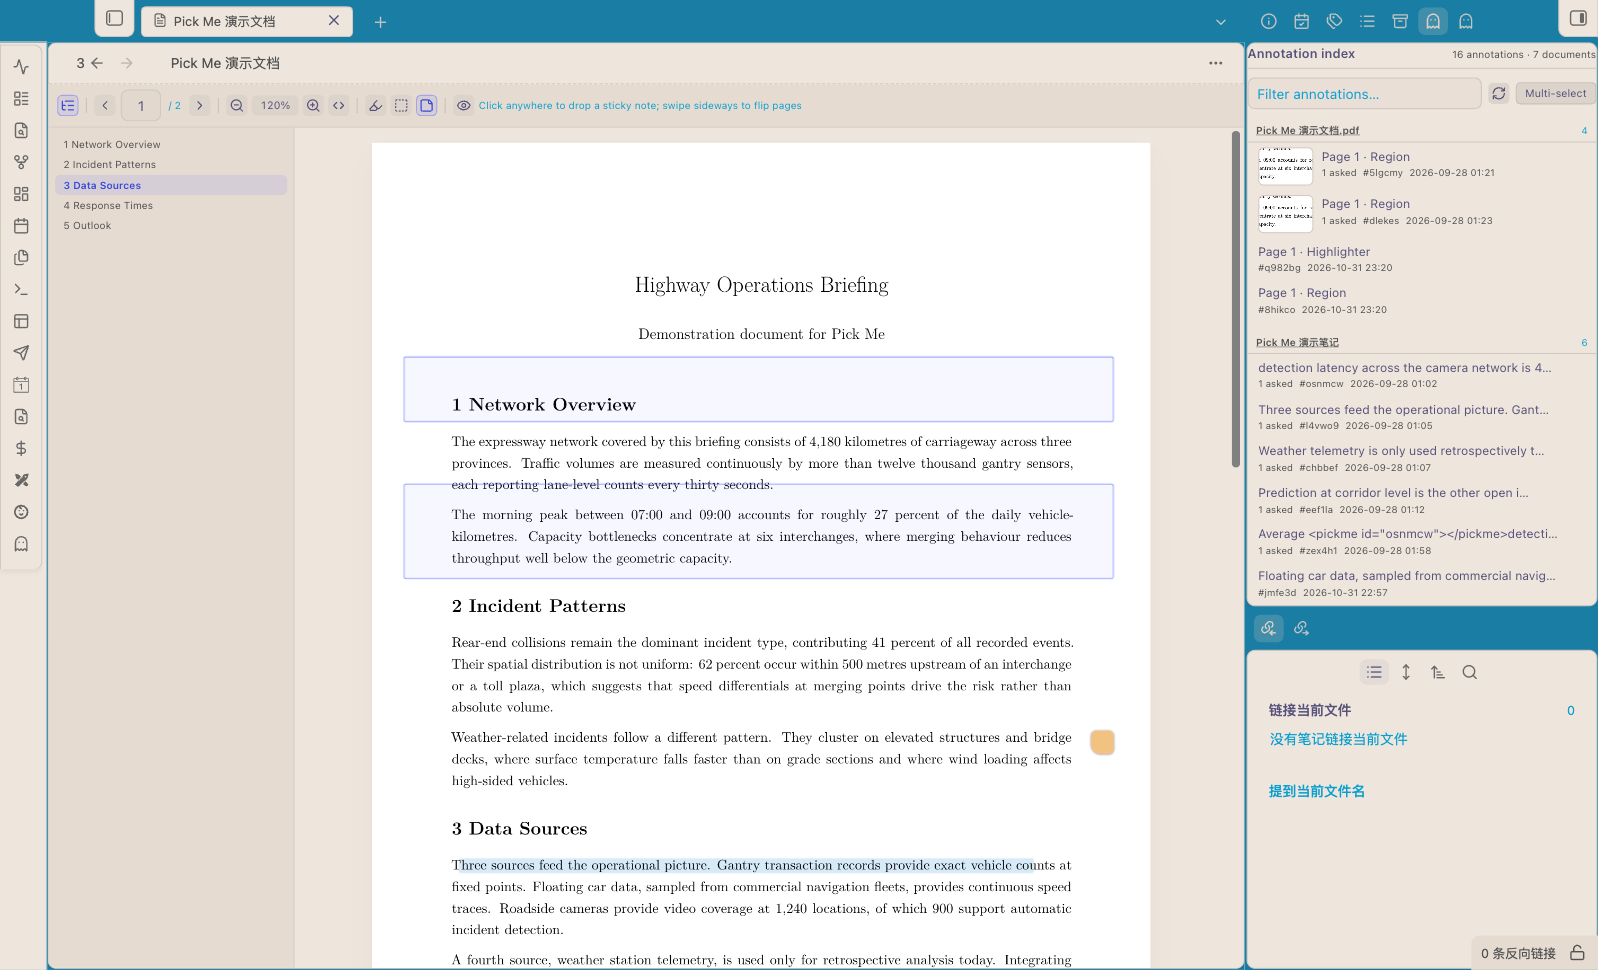
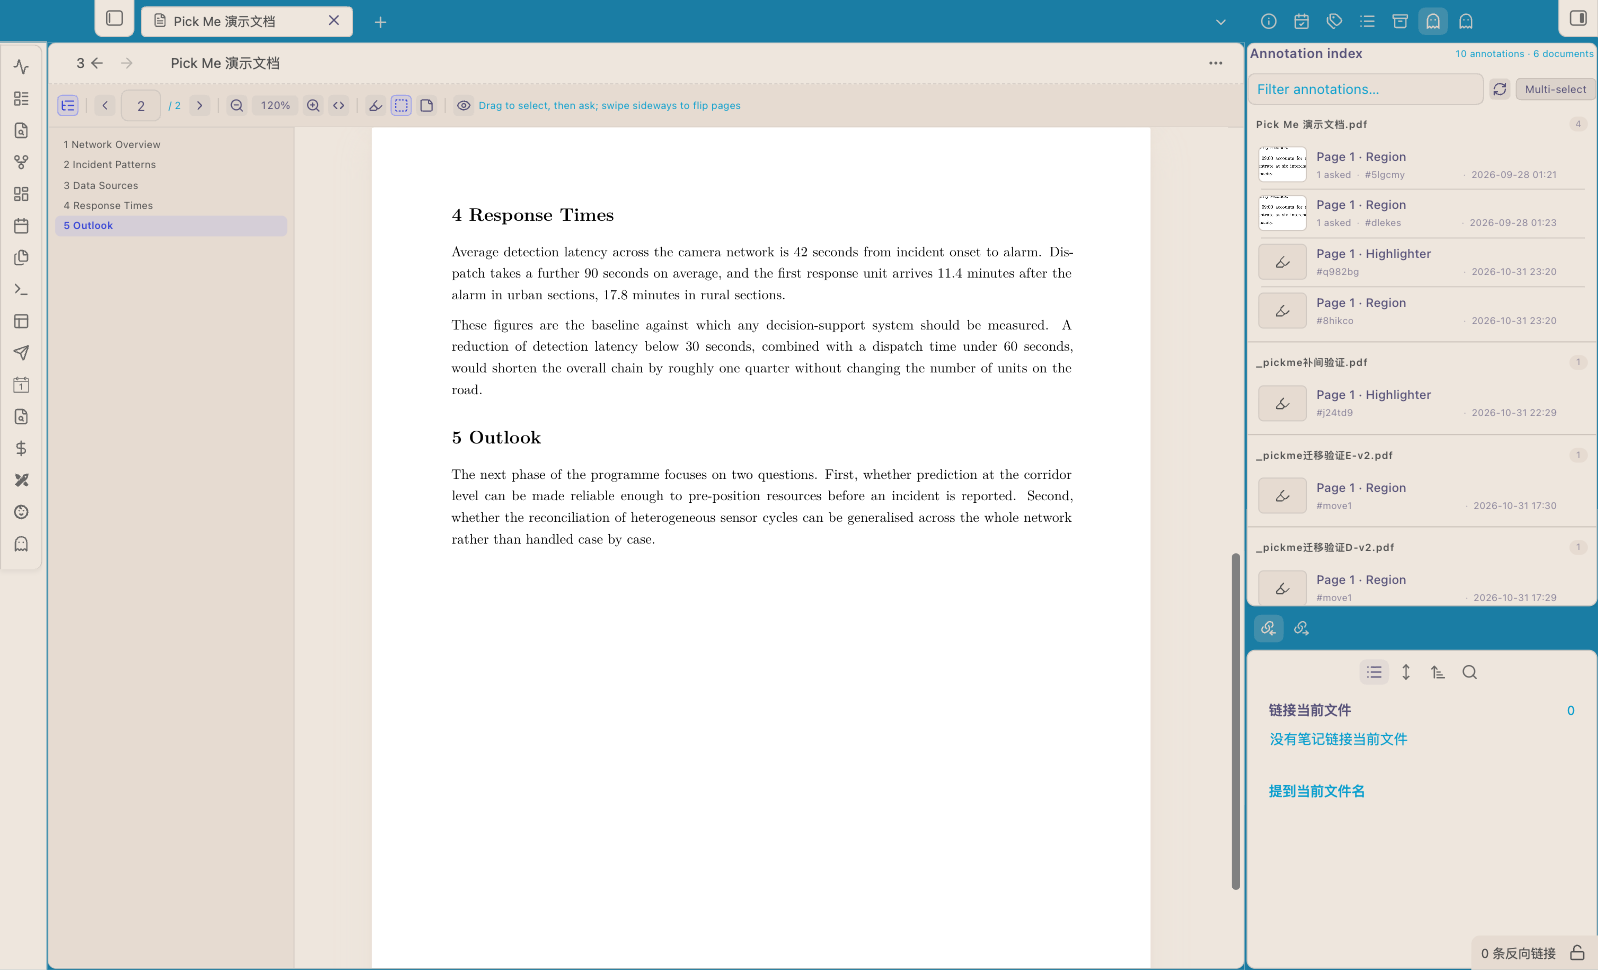
1.1.2: 批注索引排版重做
- 组头降级为小字+计数胶囊，批注标题成为主体
- 每行统一左侧预览槽（截图/类型图标），截图缺失时图标兜底
- 元信息轻点分隔、时间靠右；不再跟随主题 faint 的青色
- 行间内缩细线、组间分隔加重；文档名去掉下划线
- README 索引与多选截图重拍

diff --git a/styles.css b/styles.css
@@ -581,23 +581,43 @@ body.pickme-mark-border .pickme-mark {
 	overflow: hidden;
 }
 
+/* ================= 批注索引 ================= */
+/* 三层就够：面板标题 > 文档组（小字、低调）> 批注行 > 元信息（最弱、只做定位） */
 .pickme-index {
-	padding-top: 8px;
+	padding-top: 10px;
+}
+
+.pickme-index .pickme-header {
+	align-items: center;
+	padding: 0 2px 9px;
+	border-bottom: none;
+}
+
+.pickme-index .pickme-file {
+	font-size: 12.5px;
+	font-weight: 600;
+	letter-spacing: 0.2px;
+}
+
+.pickme-index .pickme-count {
+	font-size: var(--pk-fs-xs);
+	color: var(--pk-ink5);
+	font-variant-numeric: tabular-nums;
 }
 
 .pickme-index-tools {
-	gap: 6px;
-	margin: 8px 0 8px;
+	gap: 5px;
+	margin: 0 0 11px;
 	flex-wrap: nowrap;
 }
 
 .pickme-index-filter {
-	flex: 1;
+	flex: 1 1 auto;
 	min-width: 0;
+	height: 24px;
+	padding: 0 8px;
 	font-family: var(--font-interface);
-	font-size: var(--pk-fs);
-	height: auto;
-	padding: 3px 8px;
+	font-size: var(--pk-fs-sm);
 	background: var(--pk-surface2);
 	background-image: none;
 	border: 1px solid var(--pk-line);
@@ -650,10 +670,10 @@ body.pickme-mark-border .pickme-mark {
 .pickme-index-list {
 	display: flex;
 	flex-direction: column;
-	gap: 8px;
+	gap: 0;
 }
 
-/* 索引里的「文档」分组：不是一张卡，是一段带小标题的列表 */
+/* 文档分组不是卡片，是一段带小标题的列表 */
 .pickme-card.pickme-index-group {
 	border: none;
 	border-radius: 0;
@@ -665,19 +685,28 @@ body.pickme-mark-border .pickme-mark {
 	border-color: transparent;
 }
 
+/* 组与组之间：一道通栏细线 + 一段呼吸，比行间那层更重 */
+.pickme-index-group + .pickme-index-group {
+	margin-top: 6px;
+	padding-top: 12px;
+	border-top: 1px solid var(--pk-line2);
+}
+
 .pickme-index-source {
 	display: flex;
-	align-items: baseline;
-	gap: 6px;
+	align-items: center;
+	gap: 7px;
 	margin: 0;
-	padding: 5px 8px 3px;
-	border-bottom: 1px solid var(--pk-line);
+	padding: 0 8px 8px;
+	border-bottom: none;
 }
 
 .pickme-index-name {
 	font-size: var(--pk-fs-sm);
 	font-weight: 600;
-	color: var(--pk-ink3);
+	letter-spacing: 0.05em;
+	color: var(--pk-ink4);
+	text-decoration: none;
 	cursor: pointer;
 	overflow: hidden;
 	text-overflow: ellipsis;
@@ -687,25 +716,43 @@ body.pickme-mark-border .pickme-mark {
 
 .pickme-index-name:hover {
 	color: var(--pk-acc-ink);
+	text-decoration: none;
 }
 
+/* 组头的条数：一个安静的胶囊，别用强调色抢戏 */
 .pickme-index-source .pickme-count {
 	margin-left: auto;
-	font-size: var(--pk-fs-xs);
-	color: var(--pk-ink5);
+	padding: 1px 6px;
+	font-size: 8.5px;
+	line-height: 1.4;
+	color: color-mix(in srgb, var(--pk-ink) 56%, transparent);
+	background: var(--pk-surface2);
+	border-radius: var(--pk-pill);
+	font-variant-numeric: tabular-nums;
 }
 
-/* 一行一条批注：左侧 2px 的选中条，hover 只抬一档底色 */
+/* 一行一条批注：左侧 2px 选中条，行间只给一道内缩的细线 */
 .pickme-index-entry {
+	position: relative;
 	display: flex;
-	align-items: flex-start;
-	gap: 8px;
-	padding: 4.5px 8px;
+	align-items: center;
+	gap: 9px;
+	padding: 6px 8px;
 	margin: 0;
 	border-left: 2px solid transparent;
-	border-radius: 0 var(--pk-r-sm) var(--pk-r-sm) 0;
+	border-radius: 0;
 	cursor: pointer;
 	transition: var(--pk-t);
+}
+
+.pickme-index-entry + .pickme-index-entry::before {
+	content: '';
+	position: absolute;
+	left: 11px;
+	right: 11px;
+	top: 0;
+	height: 1px;
+	background: var(--pk-line);
 }
 
 .pickme-index-entry:hover {
@@ -717,11 +764,13 @@ body.pickme-mark-border .pickme-mark {
 .pickme-index-entry.is-active {
 	background: var(--pk-acc-soft);
 	border-left-color: var(--pk-acc);
+	border-radius: 0 var(--pk-r-sm) var(--pk-r-sm) 0;
 }
 
 /* 键盘游标所在的那一行：只加一圈内描边，不抢选中态的强调色底子 */
 .pickme-index-entry.is-cursor {
 	box-shadow: inset 0 0 0 1px var(--pk-acc-line);
+	border-radius: var(--pk-r-sm);
 }
 
 /* 单条删除：平时藏着，hover / 聚焦 / 选中 / 游标到位时现形；
@@ -767,20 +816,43 @@ body.pickme-mark-border .pickme-mark {
 	min-width: 0;
 }
 
-/* PDF 批注的框选小图：固定框 + cover，宽扁的区域截图也不会把行压成一条缝 */
-.pickme-index-thumb {
+/* 左侧固定一截「预览槽」：PDF 给框选小图，文本批注给一个图标砖，
+   这样每组里有没有截图，正文的起始位置都对得齐 */
+.pickme-index-thumb,
+.pickme-index-kind {
 	flex: 0 0 auto;
-	width: 52px;
-	height: 36px;
-	object-fit: cover;
+	width: 46px;
+	height: 34px;
 	border: 1px solid var(--pk-line);
 	border-radius: var(--pk-r-sm);
 	background: var(--pk-surface2);
 }
 
+.pickme-index-thumb {
+	object-fit: cover;
+}
+
+.pickme-index-kind {
+	display: grid;
+	place-items: center;
+	color: var(--pk-ink4);
+}
+
+.pickme-index-kind svg {
+	width: 15px;
+	height: 15px;
+	stroke-width: 1.6;
+}
+
+/* 截图文件不在了：保留槽位、只把图藏掉，别让整行往左跳 */
+.pickme-index-thumb.is-broken {
+	opacity: 0;
+}
+
 .pickme-index-what {
 	font-size: var(--pk-fs);
-	line-height: 1.45;
+	font-weight: 500;
+	line-height: 1.4;
 	color: var(--pk-ink);
 	overflow: hidden;
 	text-overflow: ellipsis;
@@ -789,26 +861,45 @@ body.pickme-mark-border .pickme-mark {
 
 .pickme-index-entry.is-stale .pickme-index-what {
 	color: var(--pk-ink4);
+	font-weight: 400;
 }
 
+/* 元信息：弱到只做定位，中间用轻点分隔，时间推到行尾对齐 */
 .pickme-index-meta {
 	display: flex;
-	flex-wrap: wrap;
-	gap: 6px;
-	margin-top: 1px;
-	color: var(--pk-ink3);
+	align-items: center;
+	margin-top: 3px;
 	font-size: var(--pk-fs-xs);
-	line-height: 1.4;
+	line-height: 1.35;
+	color: color-mix(in srgb, var(--pk-ink) 66%, transparent);
+	white-space: nowrap;
+	overflow: hidden;
+}
+
+.pickme-index-meta > span {
+	flex: 0 1 auto;
+	min-width: 0;
+	overflow: hidden;
+	text-overflow: ellipsis;
+}
+
+.pickme-index-meta > span + span:not(.pickme-index-warn)::before {
+	content: '·';
+	margin: 0 5px;
+	color: color-mix(in srgb, var(--pk-ink) 42%, transparent);
+}
+
+.pickme-index-meta > span:last-child:not(.pickme-index-warn) {
+	margin-left: auto;
 }
 
 .pickme-index-meta code,
 .pickme-index-meta .pickme-tag {
 	font-family: var(--font-monospace);
-	font-size: var(--pk-fs-xs);
-	color: var(--pk-ink3);
-	background: var(--pk-surface2);
-	border-radius: 3px;
-	padding: 0 3px;
+	font-size: 8.5px;
+	color: color-mix(in srgb, var(--pk-ink) 58%, transparent);
+	background: none;
+	padding: 0;
 }
 
 .pickme-index-ok {
@@ -816,11 +907,11 @@ body.pickme-mark-border .pickme-mark {
 }
 
 .pickme-index-warn {
+	padding: 0 5px;
+	font-size: 8.5px;
 	color: var(--pk-hot);
 	background: var(--pk-hot-soft);
 	border-radius: var(--pk-pill);
-	padding: 0 5px;
-	font-size: var(--pk-fs-xs);
 }
 
 /* 失效批注默认折起来，展开才逐条列出 */
@@ -1556,10 +1647,6 @@ body.pickme-mark-border .pickme-mark {
 	.pickme-mark,
 }
 
-/* 截图文件可能已经不在（清理过或手动删过）：加载失败就整块收掉，别留破图标 */
-.pickme-index-thumb.is-broken {
-	display: none;
-}
 
 /* 标注方式选中态：底色 + 内描边 + 图标同色，三重确认当前模式 */
 .pickme-pdf-toolbar .pickme-icon-button.is-active {

diff --git a/src/ui/indexView.ts b/src/ui/indexView.ts
@@ -289,12 +289,24 @@ export class PickmeIndexView extends ItemView {
 		// PDF 批注带框选区域的小图，一眼认得出是哪张
 		if (entry.kind === 'pdf' && entry.pdf?.image) {
 			const thumb = row.createEl('img', { cls: 'pickme-index-thumb' });
-			// 截图文件可能已经不在（清理过、或手动删过），加载失败就整块收掉，别留一个浏览器破图标
-			thumb.addEventListener('error', () => thumb.addClass('is-broken'), { once: true });
+			// 截图文件可能已经不在（清理过、或手动删过）：换成类型图标，槽位不留空、也不出破图标
+			thumb.addEventListener(
+				'error',
+				() => {
+					const fallback = createDiv({ cls: 'pickme-index-kind' });
+					setIcon(fallback, 'highlighter');
+					row.insertBefore(fallback, thumb);
+					thumb.remove();
+				},
+				{ once: true },
+			);
 			thumb.setAttribute('alt', '');
 			void this.plugin.repository.io.resourceUrl(entry.pdf.image).then((url) => {
 				if (url) thumb.src = url;
 			});
+		} else {
+			// 没有截图的行也占住同一块「预览槽」，否则同一组里正文左边界会跳来跳去
+			setIcon(row.createDiv({ cls: 'pickme-index-kind' }), entry.kind === 'pdf' ? 'highlighter' : 'quote');
 		}
 
 		const body = row.createDiv({ cls: 'pickme-index-body' });

diff --git a/CHANGELOG.md b/CHANGELOG.md
@@ -2,6 +2,14 @@
 
 Release notes shown on GitHub are taken from the section of this file that matches the tag.
 
+## 1.1.2
+
+- 批注索引排版重做：文档组标题降到小字 + 计数胶囊，批注标题成为行内主体，四级层级一眼可辨
+- 每行左侧统一「预览槽」：有截图给缩略图，没有就给类型图标（文本批注 / 高亮），正文左边界不再跳；截图文件缺失时换成图标而不是留空洞
+- 元信息（提问数 · 锚点 id · 时间）改用轻点分隔、时间推到行尾对齐；不再跟随主题的 faint 色（有的主题把它做成青色），改为按正文色取中性灰
+- 行间细线内缩，组间分隔加重；文档名去掉主题加的下划线
+- README 的索引与多选截图按新版重拍
+
 ## 1.1.1
 
 - 修下拉框：模板、模型两个选择框的箭头会压住文字 / 看不见，现在箭头自己画、右侧留出内边距
